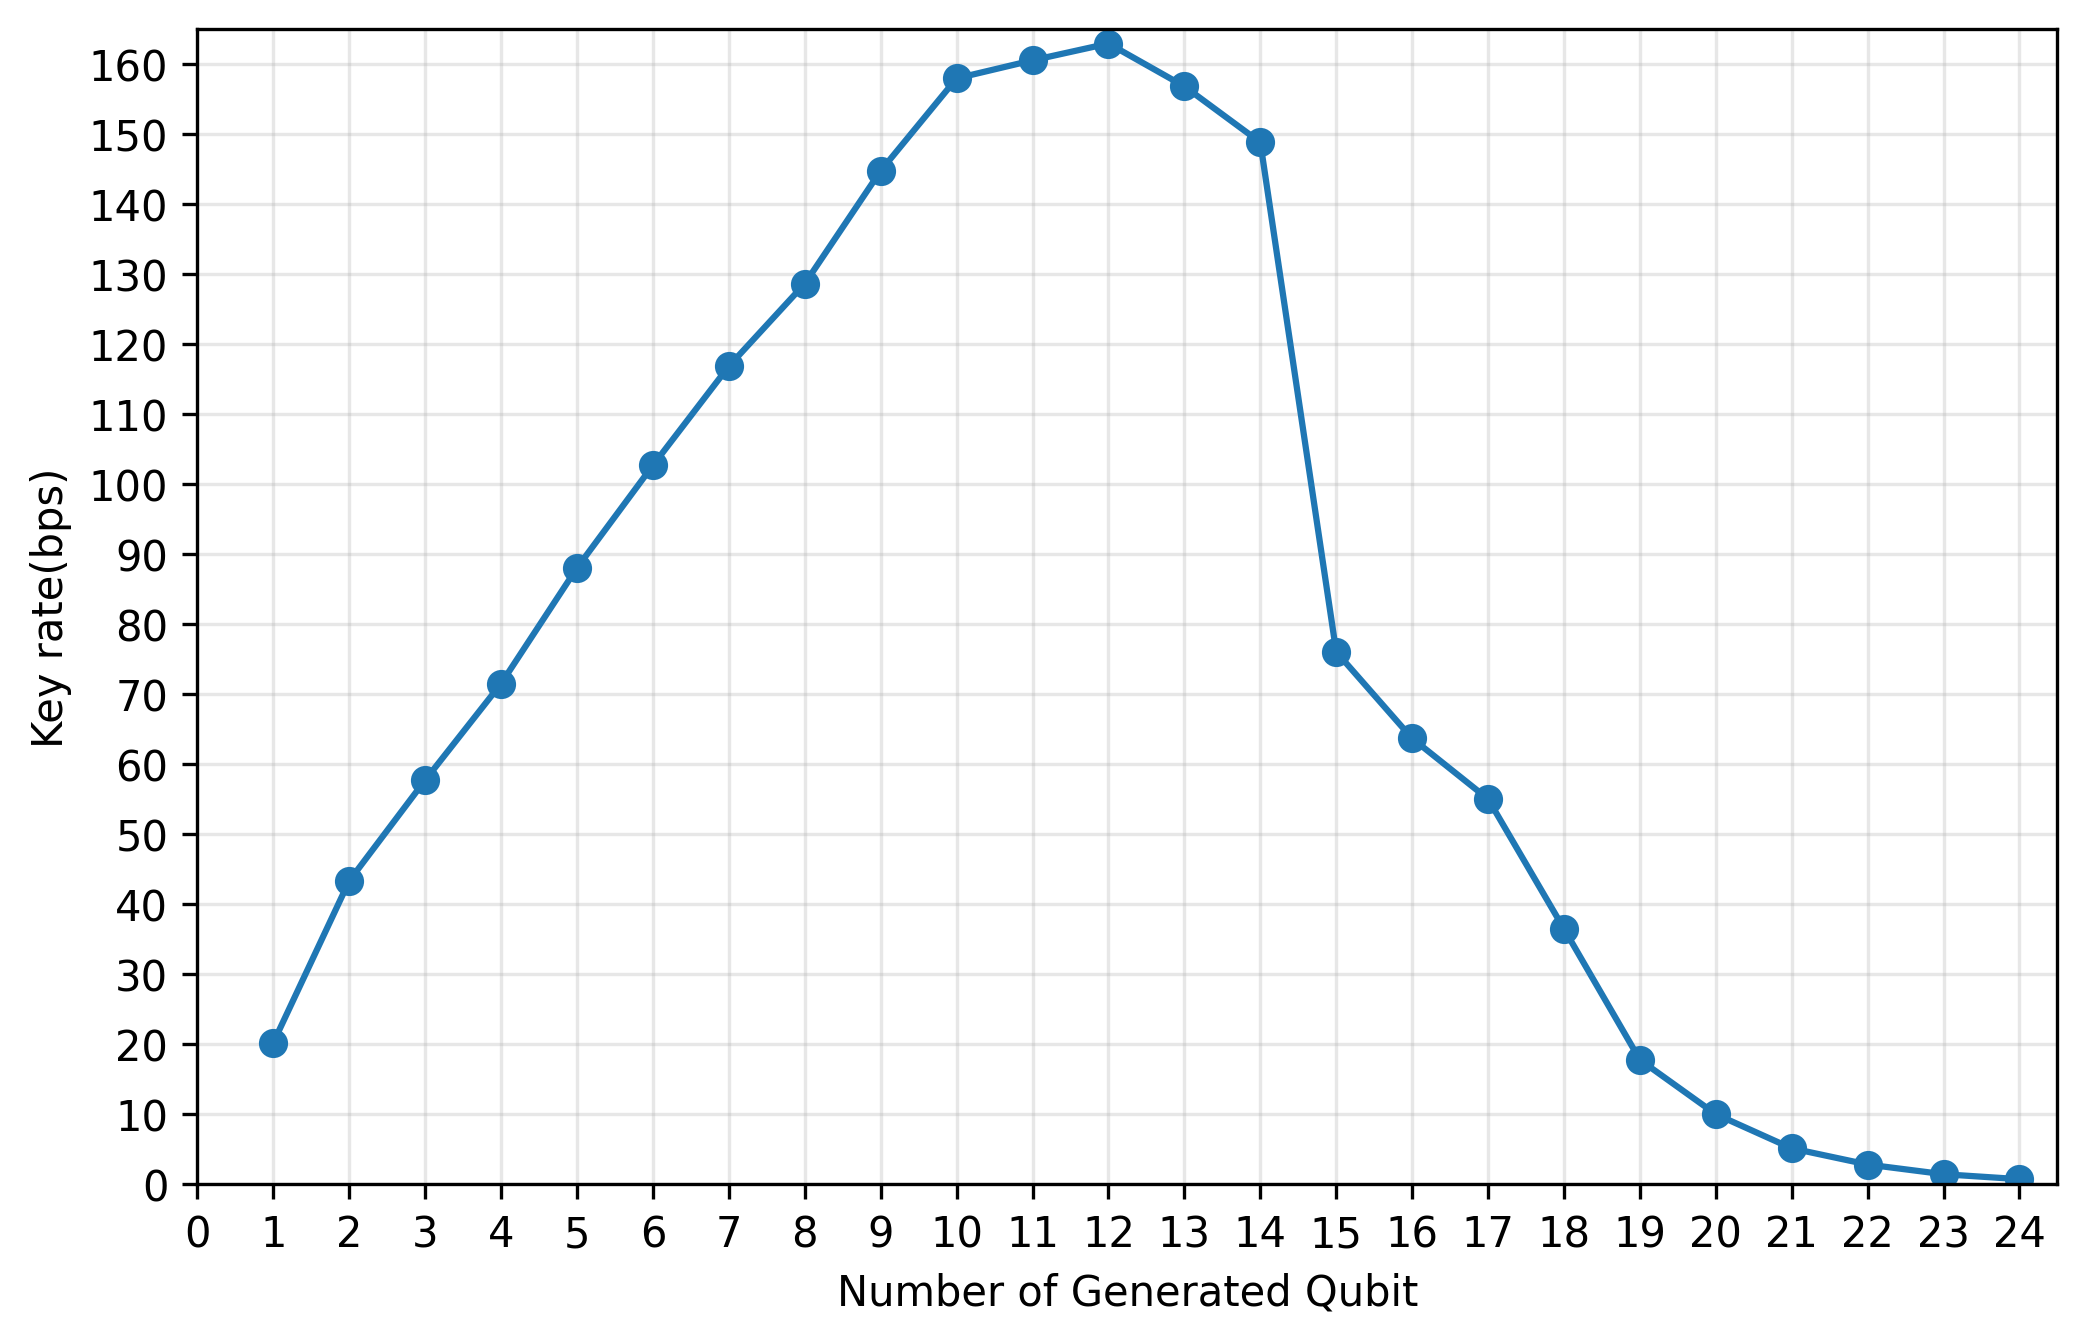
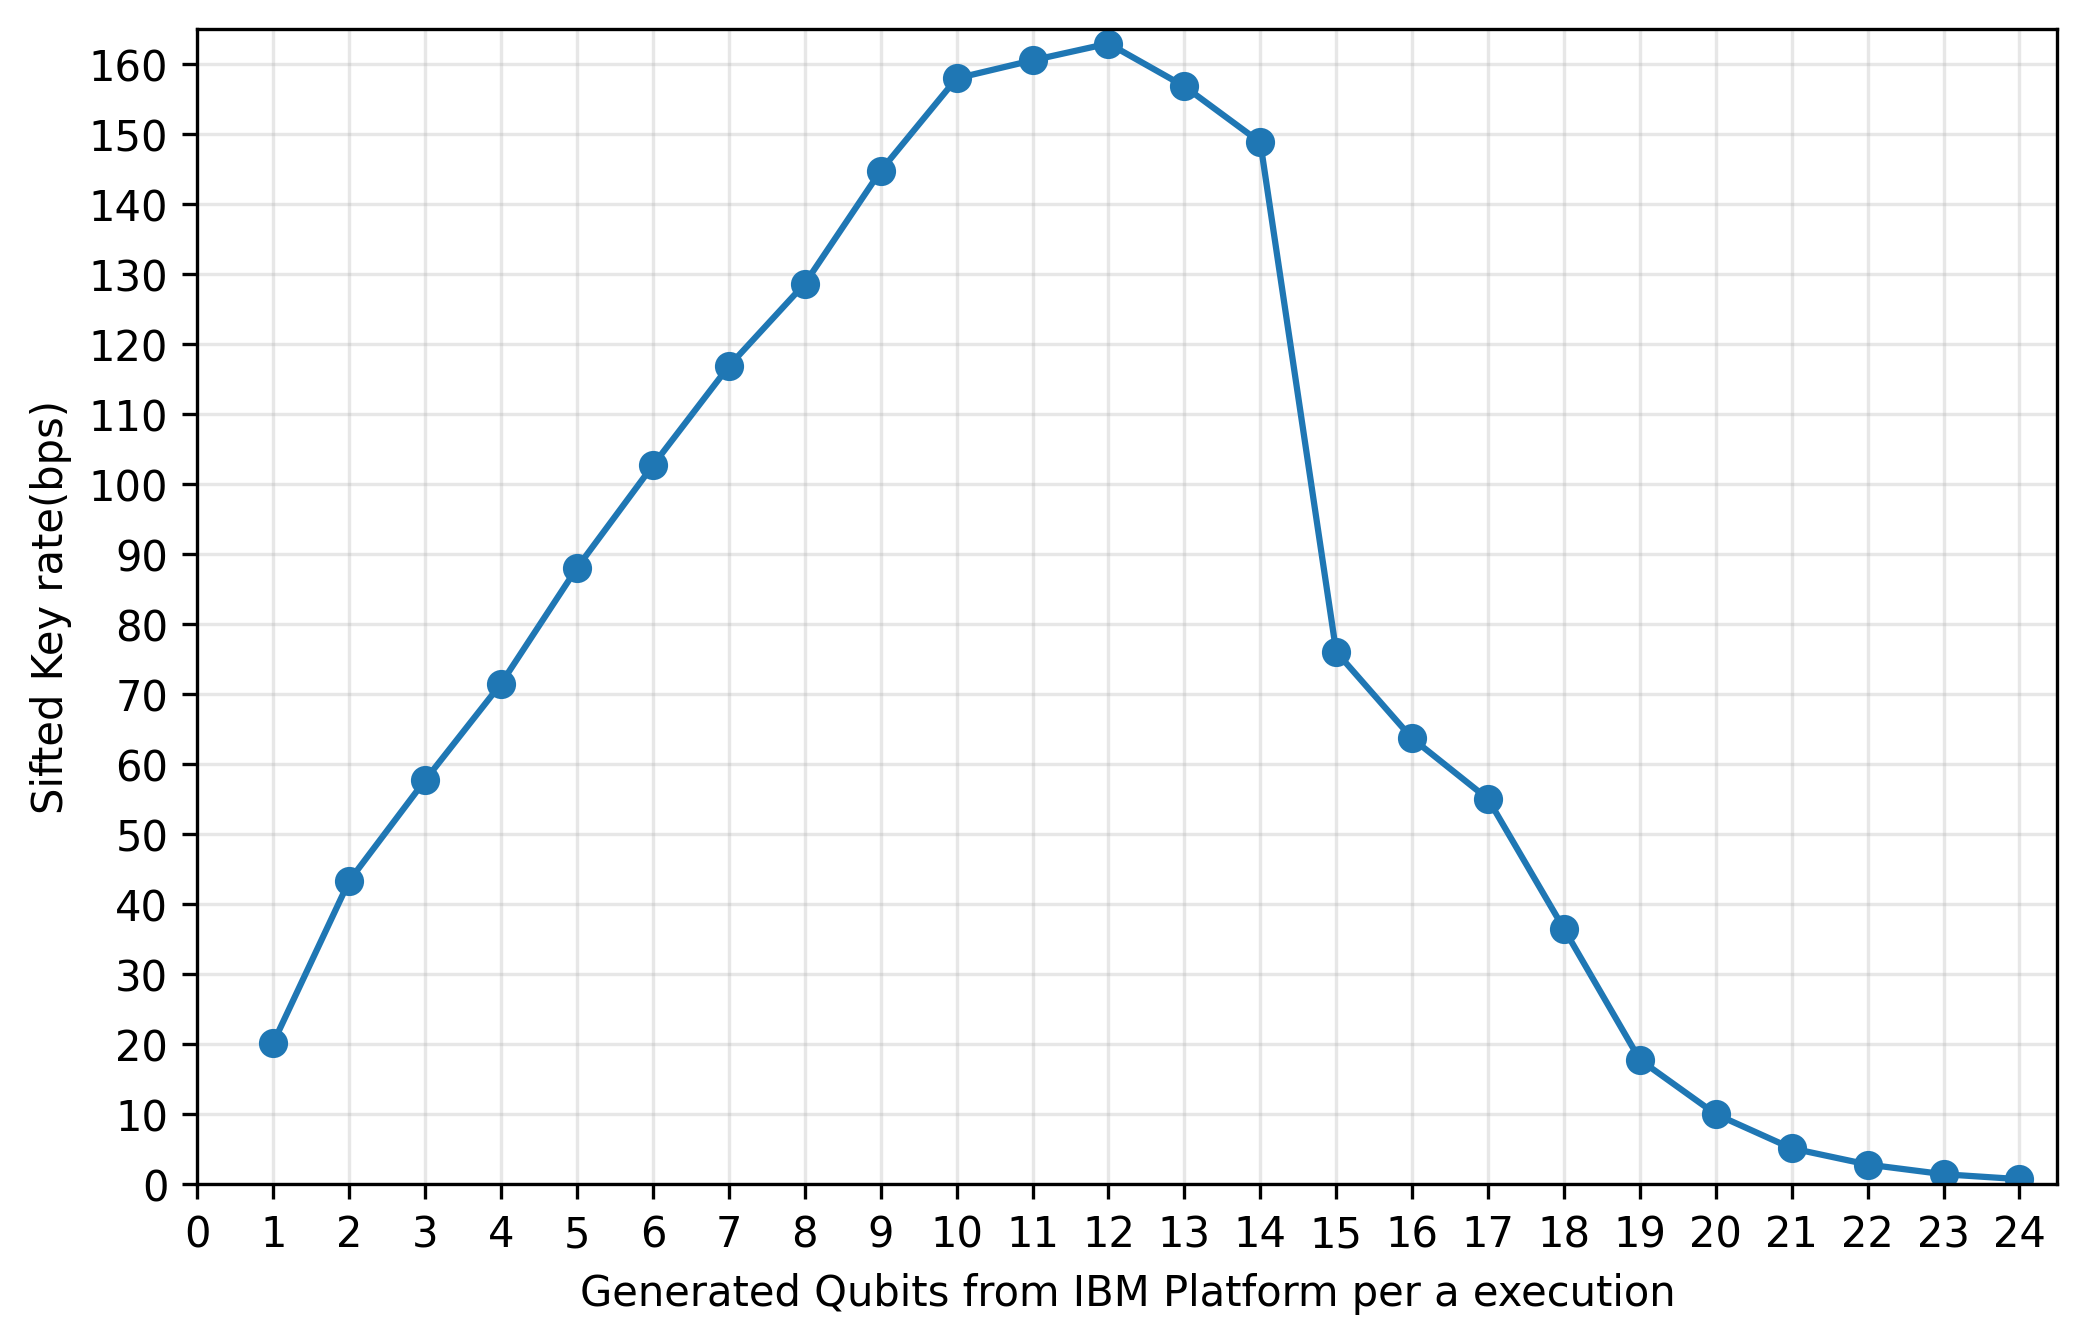
update fiure

Changed region(s): [[0.2803, 0.9375, 0.8098, 0.9688], [0.0, 0.3125, 0.0311, 0.5938]]

diff --git a/figure/qlength_vs_runtime.py b/figure/qlength_vs_runtime.py
@@ -1,0 +1,28 @@
+import numpy as np
+import matplotlib.pyplot as plt
+
+qbit = np.array([1, 2, 3, 4, 5, 6, 7, 8, 9, 10, 11, 12, 13, 14, 15, 16, 17, 18, 19, 20, 21, 22, 23, 24])
+Runtime = np.array([0.02770237684249878, 0.02807220220565796, 0.028750681877136232, 0.029110944271087645,
+                    0.029559779167175292, 0.030656797885894774, 0.032105517387390134, 0.032907323837280275,
+                    0.03253787040710449, 0.03461364507675171, 0.0360117769241333, 0.03796216011047363,
+                    0.040640277862548826, 0.047282912731170655, 0.11713955640792846, 0.12335862636566162,
+                    0.16416435956954956, 0.24074086904525757, 0.45067141771316527, 0.9586353850364685,
+                    1.9109086751937867, 3.8275503635406496, 8.607606101036072, 16.79662356376648])
+
+plt.figure(figsize=(8, 5))
+
+plt.plot(qbit, Runtime, ls='-', marker='o')
+
+plt.xlim(0, 24.5)
+plt.ylim(0, 10)
+
+plt.yticks(np.arange(0, 10, 1))
+plt.xticks(np.arange(0, 24.5, 1))
+
+plt.xlabel(r'Number of Generated Qubit')
+plt.ylabel(r'Runtime(s)')
+plt.grid(alpha=0.3)
+
+plt.savefig('qlength_vs_keyrate.png', format='png', bbox_inches="tight", dpi=300)
+
+plt.show()

diff --git a/figure/qlength_vs_runtime2.py b/figure/qlength_vs_runtime2.py
@@ -1,0 +1,26 @@
+import numpy as np
+import matplotlib.pyplot as plt
+
+qbit = np.array([1, 2, 3, 4, 5, 6, 7, 8, 9, 10, 11, 12, 13, 14, 15, 16])
+Runtime = np.array([0.02770237684249878, 0.02807220220565796, 0.028750681877136232, 0.029110944271087645,
+                    0.029559779167175292, 0.030656797885894774, 0.032105517387390134, 0.032907323837280275,
+                    0.03253787040710449, 0.03461364507675171, 0.0360117769241333, 0.03796216011047363,
+                    0.040640277862548826, 0.047282912731170655, 0.11713955640792846, 0.12335862636566162])
+
+plt.figure(figsize=(8, 5))
+
+plt.plot(qbit, Runtime, ls='-', marker='o')
+
+plt.xlim(0, 16.5)
+plt.ylim(0, 0.2)
+
+plt.yticks(np.arange(0, 0.2, 0.01))
+plt.xticks(np.arange(0, 16.5, 1))
+
+plt.xlabel(r'Number of Generated Qubit')
+plt.ylabel(r'Runtime(s)')
+plt.grid(alpha=0.3)
+
+plt.savefig('qlength_vs_keyrate2.png', format='png', bbox_inches="tight", dpi=300)
+
+plt.show()

diff --git a/figure/qlength_vs_keyrate.py b/figure/qlength_vs_keyrate.py
@@ -17,8 +17,8 @@ plt.ylim(0, 165)
 plt.yticks(np.arange(0, 165, 10))
 plt.xticks(np.arange(0, 24.5, 1))
 
-plt.xlabel(r'Number of Generated Qubit')
-plt.ylabel(r'Key rate(bps)')
+plt.xlabel(r'Generated Qubits from IBM Platform per a execution')
+plt.ylabel(r'Sifted Key rate(bps)')
 plt.grid(alpha=0.3)
 
 plt.savefig('qlength_vs_keyrate.png', format='png', bbox_inches="tight", dpi=300)

diff --git a/figure/prob_err_vs_key_length_for_linux.py b/figure/prob_err_vs_key_length_for_linux.py
@@ -15,7 +15,7 @@ plt.xticks(np.arange(0, 100, 5))
 plt.yticks(np.arange(0, 12, 1))
 
 plt.xlabel(r'Probability of error')
-plt.ylabel(r'Key_length')
+plt.ylabel(r'Sifted_Key_length')
 plt.grid(alpha=0.3)
 
 plt.title('Probability of error vs Key length (Generated Qubits = 22)')
